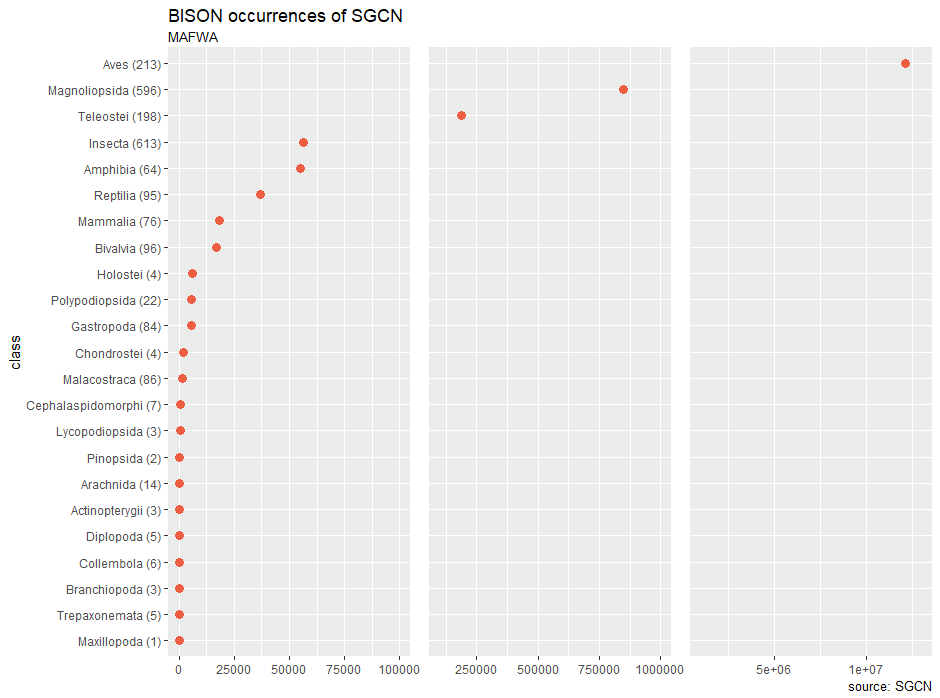
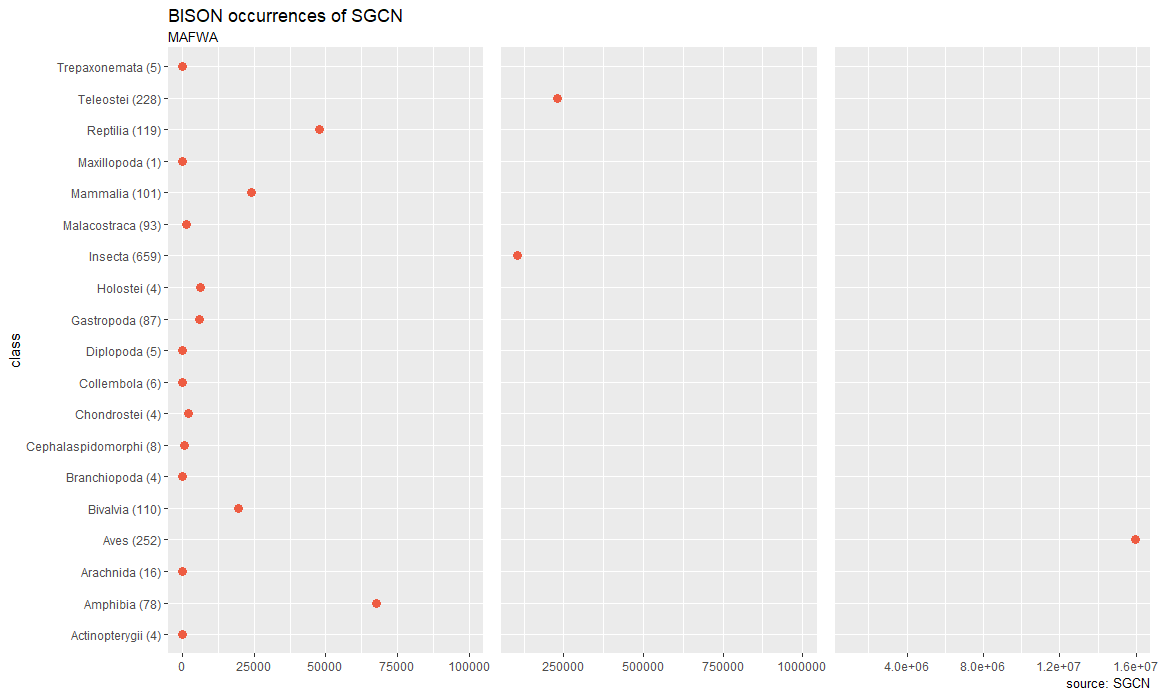
Ran with new data, stakeholder changes applied

diff --git a/MAFWA_SGCN_Analysis_Notebook.md b/MAFWA_SGCN_Analysis_Notebook.md
@@ -1,6 +1,6 @@
 BISON - SGCN Data Mashup Report for the Midwestern Association of Fish and Wildlife Agencies (MAFWA)
 Abby Benson  
-April 4, 2018  
+April 30, 2018  
 
 
 ```r
@@ -13,6 +13,8 @@ Midwestern Association of Fish and Wildlife Agences (MAFWA). SGCN lists were col
 Taxonomic Information System (ITIS), the World Register of Marine Species (WoRMS), Fish and Wildlife Service listing status information, 
 and the NatureServe database. Species that were not found in ITIS or WoRMS are not considered part of the SGCN National List but are still 
 included in this analysis.
+#' List of states included in this analysis: Illinois, Indiana, Iowa, Kansas, Kentucky, Michigan, Minnesota, Missouri, Nebraska, North Dakota,
+Ohio, South Dakota, Wisconsin
 
 
 
@@ -21,11 +23,23 @@ included in this analysis.
 
 
 ```r
-nrow(MAWFA_list)
+nrow(MAFWA_list)
 ```
 
 ```
-## [1] 2348
+## [1] 2583
+```
+
+
+### Number of Species of Greatest Conservation Need in MAFWA excluding plants:
+
+
+```r
+nrow(MAFWA_list[which(MAFWA_list$kingdom != "Plantae"),])
+```
+
+```
+## [1] 1786
 ```
 
 
@@ -33,13 +47,13 @@ nrow(MAWFA_list)
 
 
 ```r
-nrow(MAWFA_list[which(MAWFA_list$ListingStatus == "Candidate" | MAWFA_list$ListingStatus == "Endangered" | 
-                             MAWFA_list$ListingStatus == "Threatened" | 
-                             MAWFA_list$ListingStatus == "Under Review in the Candidate or Petition Process"),])
+nrow(MAFWA_list[which(MAFWA_list$ListingStatus == "Candidate" | MAFWA_list$ListingStatus == "Endangered" | 
+                             MAFWA_list$ListingStatus == "Threatened" | 
+                             MAFWA_list$ListingStatus == "Under Review in the Candidate or Petition Process"),])
 ```
 
 ```
-## [1] 108
+## [1] 123
 ```
 
 ```r
@@ -49,12 +63,16 @@ lsp1 <- ggplot(ls_r1, aes(x=count, y=class)) + geom_point(shape=1)
 lsp1 + facet_grid(ListingStatus ~ .)
 ```
 
-![plot of chunk unnamed-chunk-3](https://github.com/albenson-usgs/sgcn_bison_bap/blob/master/MAFWA_SGCN_Analysis_Notebook_chunk3plot.png)
+![plot of chunk unnamed-chunk-4](figure/unnamed-chunk-4-1.png)
+
+#### ========= Note: From this point forward, plants are removed from the analysis as requested by the MAFWA representative because plants 
+####                 are not eligible for grants under the Fish and Wildlife Service State Wildlife Grant Program ========================
+
 
 
 ### BISON Occurrence Data Available for these SGCN grouped by the Class level of the taxonomic hierarchy
 First we'll examine what the breakdown looks like for the types of observations for these species for all observations from all locations.
-But as you can see, it's difficult to discern what's available for anything but birds
+But as you can see, it's difficult to discern what's available for anything but birds.
 
 
 ```r
@@ -64,20 +82,20 @@ op1 + geom_bar(aes(fill = type), position = position_stack(reverse = TRUE), stat
   theme(legend.position = "top") 
 ```
 
-![plot of chunk unnamed-chunk-4](https://github.com/albenson-usgs/sgcn_bison_bap/blob/master/MAFWA_SGCN_Analysis_Notebook_chunk4plot.png)
+![plot of chunk unnamed-chunk-5](figure/unnamed-chunk-5-1.png)
 
 Therefore we take birds out and see what is available for the rest of the classes.
 
 
 ```r
-o1_1_gather <- o1_gather[which(o1_gather$class != "Aves (213)"),]
+o1_1_gather <- o1_gather[which(o1_gather$class != "Aves (252)"),]
 op2 <- ggplot(o1_1_gather, aes(class, `Number of Occurrences` ))
 op2 + geom_bar(aes(fill = type), position = position_stack(reverse = TRUE), stat = "identity") +
   coord_flip() +
   theme(legend.position = "top") 
 ```
 
-![plot of chunk unnamed-chunk-5](https://github.com/albenson-usgs/sgcn_bison_bap/blob/master/MAFWA_SGCN_Analysis_Notebook_chunk5plot.png)
+![plot of chunk unnamed-chunk-6](figure/unnamed-chunk-6-1.png)
 
 Next we'll see how this breaks down for the region of interest- MAFWA
 
@@ -108,7 +126,7 @@ p1 <- ggplotGrob(p1)
 ```
 
 ```
-## Warning: Removed 23 rows containing missing values (geom_segment).
+## Warning: Removed 19 rows containing missing values (geom_segment).
 ```
 
 ```r
@@ -134,15 +152,15 @@ p2 <- ggplotGrob(p2)
 ```
 
 ```
-## Warning: Removed 21 rows containing missing values (geom_point).
+## Warning: Removed 17 rows containing missing values (geom_point).
 ```
 
 ```
-## Warning: Removed 21 rows containing missing values (geom_point).
+## Warning: Removed 17 rows containing missing values (geom_point).
 ```
 
 ```
-## Warning: Removed 23 rows containing missing values (geom_segment).
+## Warning: Removed 19 rows containing missing values (geom_segment).
 ```
 
 ```r
@@ -162,21 +180,21 @@ p3 <- ggplot(r1, aes(x=class, y=Total)) +
         axis.text.y=element_blank(),
         axis.ticks.y=element_blank(),
         axis.title.x = element_blank()) +
-  ylim(1000001,13000000) + 
+  ylim(1000001,16000000) + 
   coord_flip()
 p3 <- ggplotGrob(p3)
 ```
 
 ```
-## Warning: Removed 22 rows containing missing values (geom_point).
+## Warning: Removed 18 rows containing missing values (geom_point).
 ```
 
 ```
-## Warning: Removed 22 rows containing missing values (geom_point).
+## Warning: Removed 18 rows containing missing values (geom_point).
 ```
 
 ```
-## Warning: Removed 23 rows containing missing values (geom_segment).
+## Warning: Removed 19 rows containing missing values (geom_segment).
 ```
 
 ```r
@@ -185,7 +203,7 @@ g <- cbind(p1, p2, p3, size = "first")
 grid::grid.draw(g)
 ```
 
-![plot of chunk unnamed-chunk-6](https://github.com/albenson-usgs/sgcn_bison_bap/blob/master/MAFWA_SGCN_Analysis_Notebook_chunk6plot.png)
+![plot of chunk unnamed-chunk-7](figure/unnamed-chunk-7-1.png)
 
 
 Stack bar chart showing the proportion of records that are in each state by class
@@ -194,8 +212,8 @@ Stack bar chart showing the proportion of records that are in each state by clas
 ```r
 r1_gather <- gather(r1, key = "state", value = "occCount", -class)
 r1_gather <- r1_gather[which(r1_gather$state != "classtotal" & r1_gather$state != "Total"),]
-r1_1_gather <- r1_gather[which(r1_gather$class != "Aves (213)"),]
-r1_2_gather <- r1_gather[which(r1_gather$class == "Aves (213)"),]
+r1_1_gather <- r1_gather[which(r1_gather$class != "Aves (252)"),]
+r1_2_gather <- r1_gather[which(r1_gather$class == "Aves (252)"),]
 r1_1_gather$class <- factor(r1_1_gather$class, levels = r1_1_gather$class[order(r1$Total)])
 ```
 
@@ -208,7 +226,7 @@ r1_1_gather$class <- factor(r1_1_gather$class, levels = r1_1_gather$class[order(
 g1 <- ggplot(r1_1_gather, aes(class, occCount))
 g1 + geom_bar(aes(fill = state), position = position_stack(reverse = TRUE), stat = "identity") +
   coord_flip() +
-  theme(legend.position = "top") + ylim(0,855000) #doesn't show Aves
+  theme(legend.position = "top") + ylim(0,250000) #doesn't show Aves
 ```
 
 ```
@@ -223,5 +241,5 @@ g1 + geom_bar(aes(fill = state), position = position_stack(reverse = TRUE), stat
 ## Warning: Removed 1 rows containing missing values (geom_bar).
 ```
 
-![plot of chunk unnamed-chunk-7](https://github.com/albenson-usgs/sgcn_bison_bap/blob/master/MAFWA_SGCN_Analysis_Notebook_chunk7plot.png)
+![plot of chunk unnamed-chunk-8](figure/unnamed-chunk-8-1.png)
 
